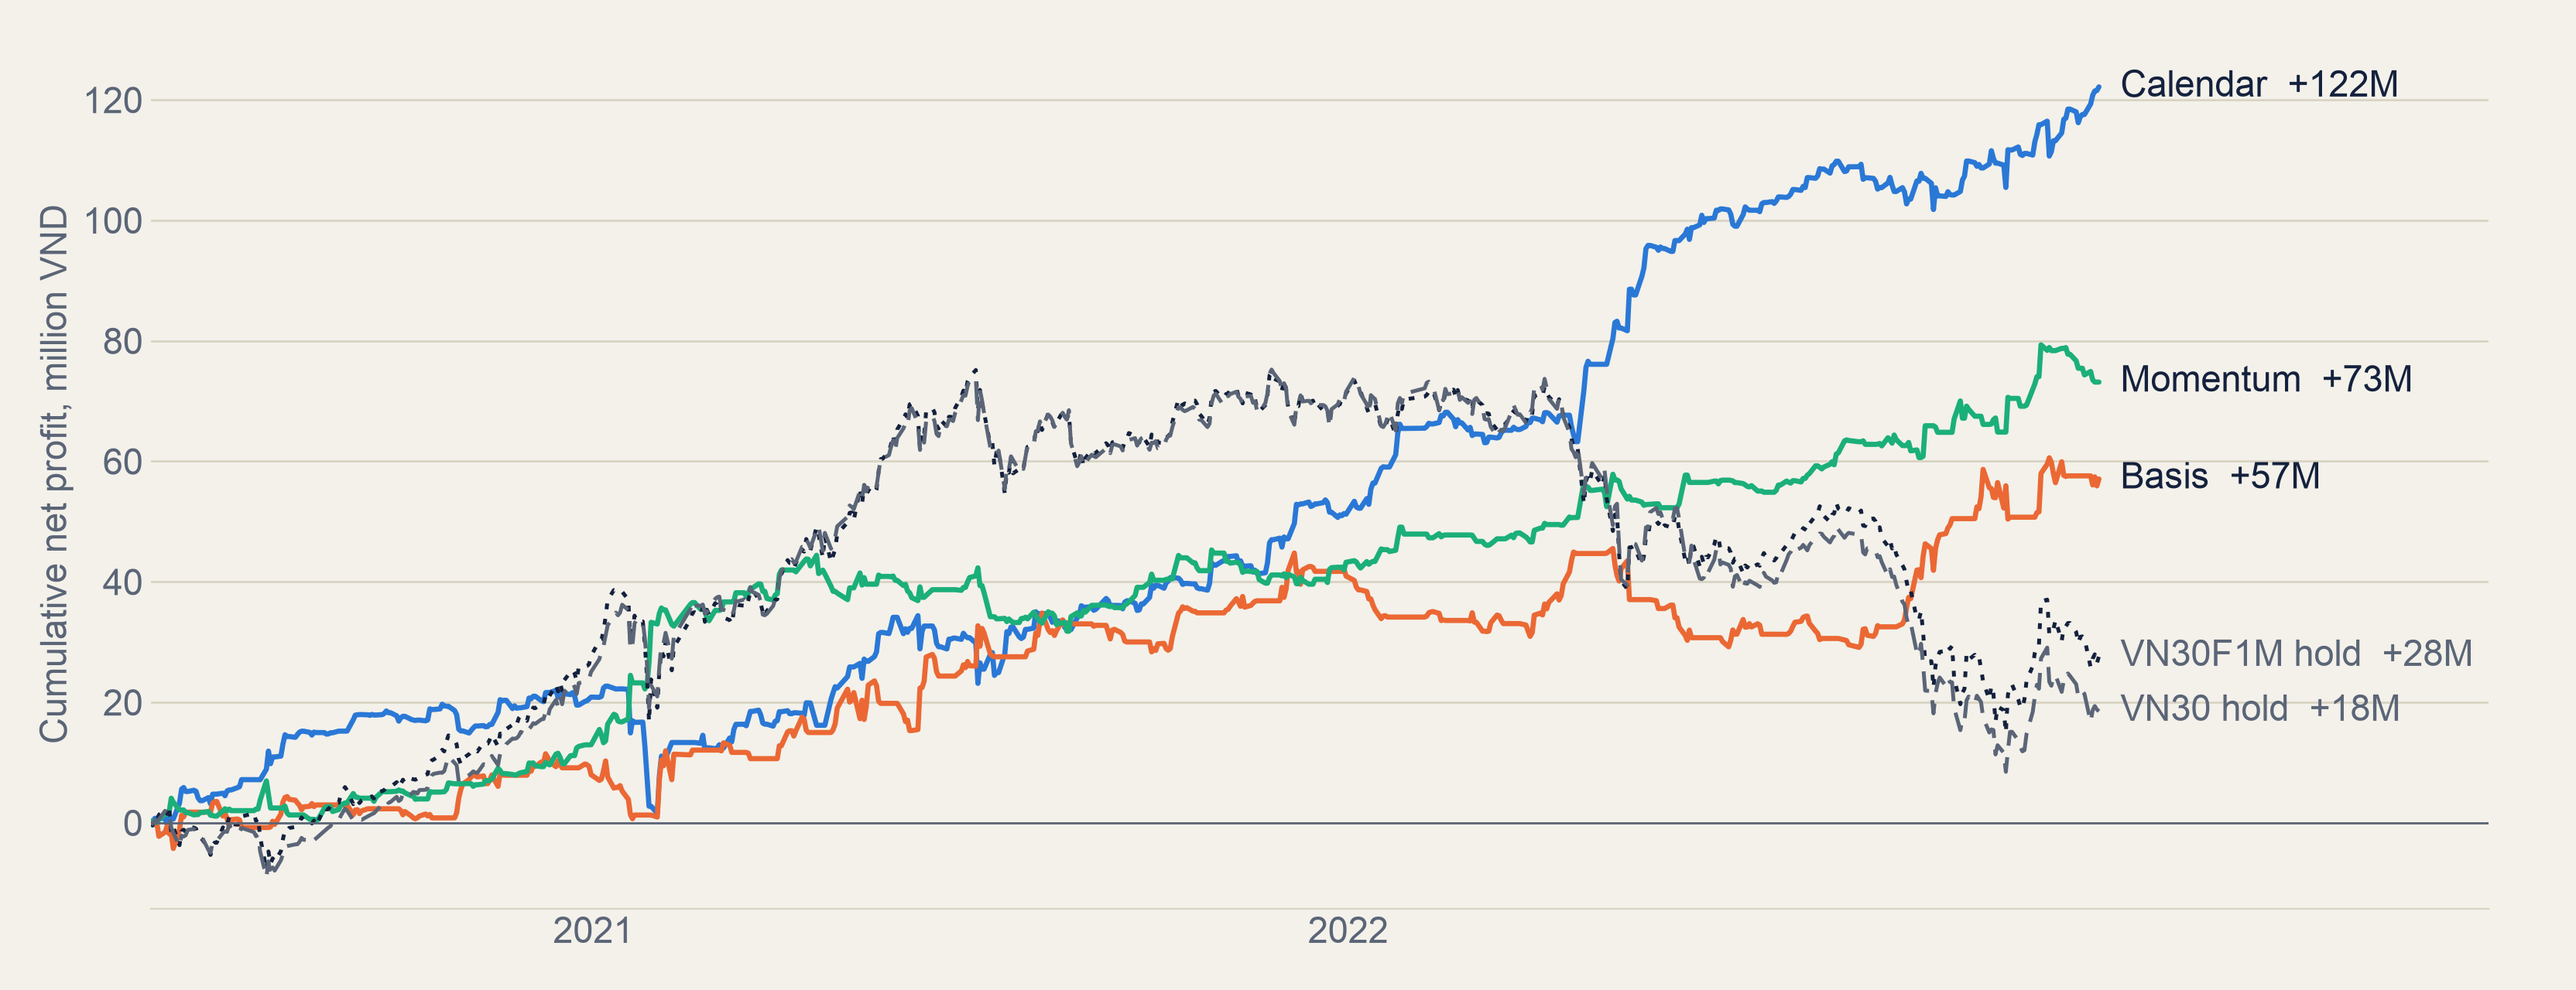
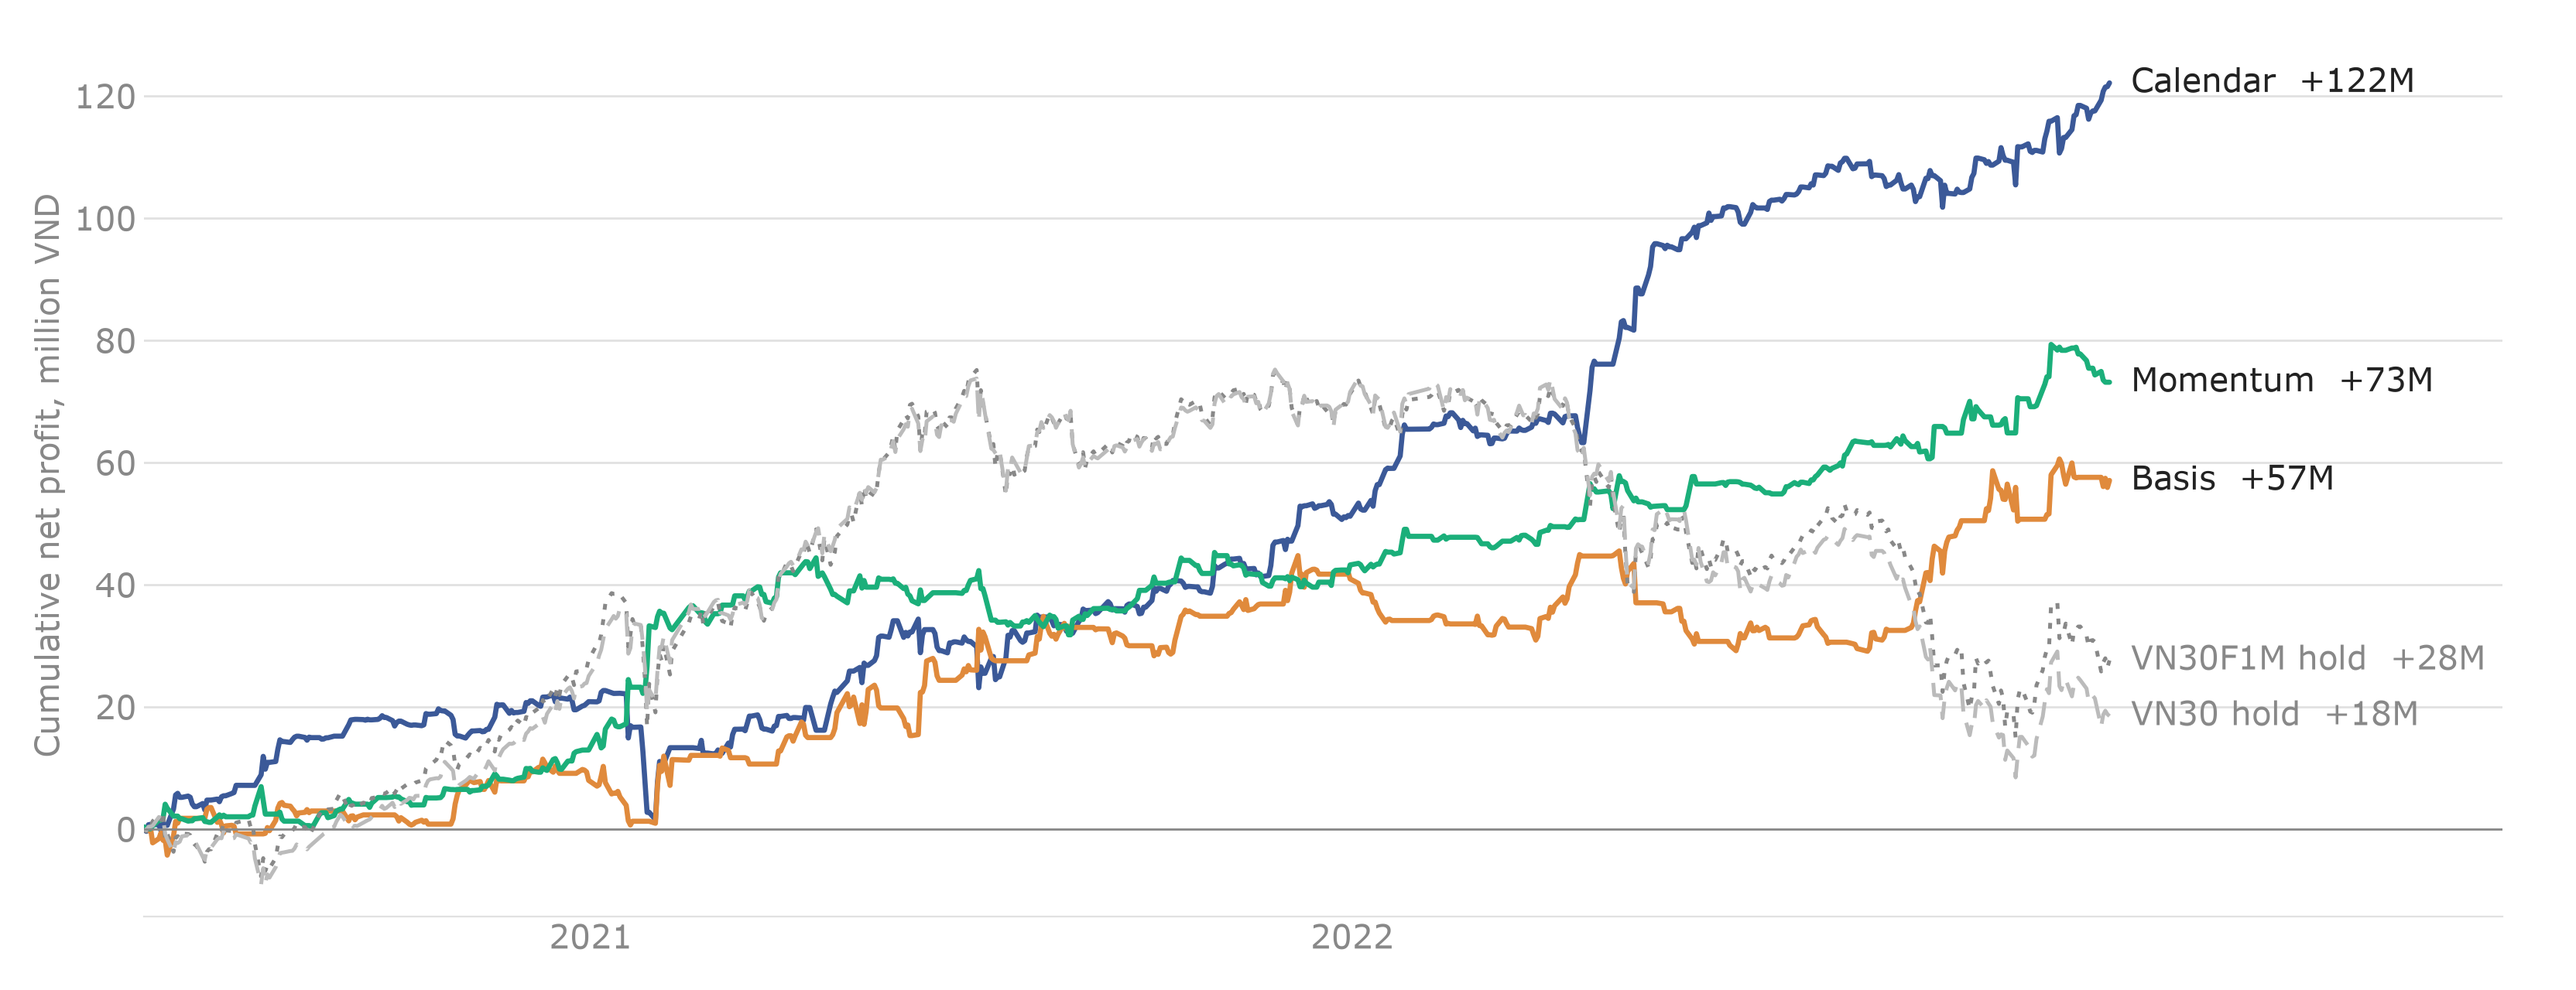
style(figures): white charts in the dashboard's style (Verdana, grey grid, blue accent)
Colours and fonts only; every number is unchanged. README images regenerated.

diff --git a/scripts/plot_calibrum_1m.py b/scripts/plot_calibrum_1m.py
@@ -36,13 +36,16 @@ REPORTS = WORKSPACE / "reports" / "calibrum_1m"
 FIGURES = REPORTS / "figures"
 MILLION_VND_PER_POINT = 0.1  # 1 point = 100,000 VND
 
-SURFACE, INK, MUTED, GRID, SHADE = "#F3F1EA", "#14213D", "#5B6577", "#D9D3C3", "#E6E2D6"
+# White, as the live dashboard: grey grid and text, one blue accent.
+SURFACE, INK, MUTED, GRID, SHADE = "#FFFFFF", "#222222", "#888888", "#E1E1E1", "#F4F4F4"
+ACCENT, ORANGE = "#3b5998", "#e08a3c"
+FONT, FONT_SIZE = ["Verdana", "DejaVu Sans"], 15  # DejaVu fills glyphs Verdana lacks (⇔, θ)
 PANELS = (
-    ("Each sleeve alone", {"C": "#2a78d6", "B": "#eb6834", "M": "#1baf7a"}),
-    ("Pairs and all three", {"C+B": "#e87ba4", "C+M": "#008300", "B+M": "#eda100", "C+B+M": "#6250d6"}),
+    ("Each sleeve alone", {"C": ACCENT, "B": ORANGE, "M": "#1baf7a"}),
+    ("Pairs and all three", {"C+B": "#e87ba4", "C+M": "#008300", "B+M": "#eda100", "C+B+M": ACCENT}),
 )
 NAMES = {"C": "Calendar", "B": "Basis", "M": "Momentum", "VN30F1M": "VN30F1M hold", "VN30": "VN30 hold"}
-BENCHMARKS = {"VN30F1M": (INK, (0, (1.5, 2.5))), "VN30": (MUTED, (0, (6, 3)))}
+BENCHMARKS = {"VN30F1M": (MUTED, (0, (1.5, 2.5))), "VN30": ("#BBBBBB", (0, (6, 3)))}
 PERIODS = (
     ("In-sample", "2020-06-01"),
     ("Valid", "2023-01-01"),
@@ -90,7 +93,7 @@ def draw(source: Path, out_stem: Path, size_px: tuple[int, int], mark_periods: b
     last = max(curve.index[-1] for curve in curves.values())
     references = _benchmarks(first, last)
     written = []
-    plt.rcParams.update({"font.family": "Arial", "font.size": 17, "axes.edgecolor": GRID})
+    plt.rcParams.update({"font.family": FONT, "font.size": FONT_SIZE, "axes.edgecolor": GRID})
     for (title, colours), suffix in zip(PANELS, ("sleeves", "combos")):
         shown = {**{combo: curves[combo] for combo in colours}, **references}
         top = max(series.max() for series in shown.values())
@@ -158,7 +161,7 @@ def draw_period(source: Path, start: str, end: str, out_stem: Path, size_px: tup
     first, last = min(c.index[0] for c in curves.values()), max(c.index[-1] for c in curves.values())
     references = _benchmarks(first, last)
     written = []
-    plt.rcParams.update({"font.family": "Arial", "font.size": 17, "axes.edgecolor": GRID})
+    plt.rcParams.update({"font.family": FONT, "font.size": FONT_SIZE, "axes.edgecolor": GRID})
     for (_, colours), suffix in zip(PANELS, ("sleeves", "combos")):
         shown = {**{name: curves[name] for name in colours}, **references}
         top = max(0.0, max(series.max() for series in shown.values()))
@@ -211,10 +214,10 @@ def draw_correlation(matrices: dict[str, dict], out: Path, size_px: tuple[int, i
     """
     from matplotlib.colors import LinearSegmentedColormap
 
-    cmap = LinearSegmentedColormap.from_list("diverging", ["#2a78d6", "#E6E2D6", "#eb6834"])
+    cmap = LinearSegmentedColormap.from_list("diverging", [ACCENT, SHADE, ORANGE])
     names = ["C", "B", "M"]
     labels = [NAMES[n] for n in names]
-    plt.rcParams.update({"font.family": "Arial", "font.size": 18})
+    plt.rcParams.update({"font.family": FONT, "font.size": FONT_SIZE + 1})
     fig, axes = plt.subplots(1, len(matrices), figsize=(2 * size_px[0] / DPI, 2 * size_px[1] / DPI))
     axes = [axes] if len(matrices) == 1 else list(axes)
     fig.patch.set_facecolor(SURFACE)

diff --git a/scripts/paper_luna.py b/scripts/paper_luna.py
@@ -99,25 +99,25 @@ def draw(curve: pd.DataFrame, adjusted: pd.Series, chart_start: pd.Timestamp, ou
     import matplotlib.dates as mdates
     import matplotlib.pyplot as plt
 
-    from scripts.plot_calibrum_1m import DPI, GRID, INK, MUTED, SURFACE
+    from scripts.plot_calibrum_1m import ACCENT, DPI, FONT, FONT_SIZE, GRID, INK, MUTED, SHADE, SURFACE
 
     days = adjusted.loc[chart_start:END].index
     bot = (curve["pnl"] / 1e6).reindex(days).fillna(0.0)
     hold = (adjusted.loc[days] - adjusted.loc[chart_start]) * HOLD * MULTIPLIER / 1e6
     bot_start = adjusted.loc[: START - pd.Timedelta(days=1)].index[-1]  # both lines are marked at closes
 
-    plt.rcParams.update({"font.family": "Arial", "font.size": 18, "axes.edgecolor": GRID})
+    plt.rcParams.update({"font.family": FONT, "font.size": FONT_SIZE + 1, "axes.edgecolor": GRID})
     fig, ax = plt.subplots(figsize=(2 * 1664 / DPI, 2 * 600 / DPI))
     fig.patch.set_facecolor(SURFACE)
     ax.set_facecolor(SURFACE)
-    ax.axvspan(days[0], bot_start, color="#E6E2D6", linewidth=0)
-    ax.plot(bot.index, bot.values, color="#2a78d6", linewidth=3.4, solid_capstyle="round")
+    ax.axvspan(days[0], bot_start, color=SHADE, linewidth=0)
+    ax.plot(bot.index, bot.values, color=ACCENT, linewidth=3.4, solid_capstyle="round")
     ax.plot(hold.index, hold.values, color=INK, linewidth=1.8, linestyle=(0, (1.5, 2.5)))
     ax.axhline(0, color=MUTED, linewidth=1)
     top, bottom = max(bot.max(), hold.max()), min(bot.min(), hold.min())
     label_y = top + 0.06 * (top - bottom)
     ax.axvline(bot_start, color=MUTED, linewidth=1.6, linestyle=(0, (4, 3)))
-    ax.text(days[0] + pd.Timedelta(days=1), label_y, "August contract, before the bot", color=MUTED, fontsize=18, va="top")
+    ax.text(days[0] + pd.Timedelta(days=1), label_y, "Before the bot", color=MUTED, fontsize=18, va="top")
     ax.text(bot_start + pd.Timedelta(days=1), label_y, f"Bot starts, {START:%d %b}", color=INK, fontsize=18,
             va="top", fontweight="bold")
     for series, text, colour, weight in (

diff --git a/scripts/plot_calibrum_drawdown.py b/scripts/plot_calibrum_drawdown.py
@@ -29,8 +29,11 @@ if str(WORKSPACE) not in sys.path:
     sys.path.insert(0, str(WORKSPACE))
 
 from scripts.plot_calibrum_1m import (  # noqa: E402
+    ACCENT,
     BENCHMARKS,
     DPI,
+    FONT,
+    FONT_SIZE,
     FIGURES,
     GRID,
     INK,
@@ -41,7 +44,7 @@ from scripts.plot_calibrum_1m import (  # noqa: E402
 )
 from src.lab.calibrum_1m import pipeline  # noqa: E402
 
-COMBO, COLOUR = "C+B+M", "#6250d6"
+COMBO, COLOUR = "C+B+M", ACCENT
 NAMES = {"in_sample": "In-sample", "valid": "Valid", "oos1": "OOS 1", "oos2": "OOS 2"}
 CAPITAL_MILLION = 100.0
 POINT_MILLION = 0.1
@@ -81,7 +84,7 @@ def main() -> int:
     hold = _daily(json.loads((REPORTS / "benchmarks.json").read_text(encoding="utf-8"))["daily_net_points"], "VN30F1M")
     windows = pipeline.periods(pipeline.load_config())
 
-    plt.rcParams.update({"font.family": "Arial", "font.size": 17, "axes.edgecolor": GRID})
+    plt.rcParams.update({"font.family": FONT, "font.size": FONT_SIZE, "axes.edgecolor": GRID})
     fig, ax = plt.subplots(figsize=(2 * 1664 / DPI, 2 * 640 / DPI))
     fig.patch.set_facecolor(SURFACE)
     ax.set_facecolor(SURFACE)

diff --git a/scripts/plot_calibrum_positions.py b/scripts/plot_calibrum_positions.py
@@ -32,8 +32,10 @@ from run_calibrum_1m import _optimised_sleeves  # noqa: E402
 from src.lab.calibrum_1m import pipeline  # noqa: E402
 
 FIGURES = WORKSPACE / "reports" / "calibrum_1m" / "figures"
-SURFACE, INK, MUTED, GRID, LANE = "#F3F1EA", "#14213D", "#5B6577", "#D9D3C3", "#E6E2D6"
-LONG, SHORT = "#2a78d6", "#eb6834"
+from scripts.plot_calibrum_1m import ACCENT, FONT, FONT_SIZE, GRID, INK, MUTED, ORANGE, SURFACE  # noqa: E402
+
+LANE = "#F4F4F4"
+LONG, SHORT = ACCENT, ORANGE
 LANES = (("C", "Calendar"), ("B", "Basis"), ("M", "Momentum"), ("V", "Vote C+B+M"))
 DPI = 200
 
@@ -63,7 +65,7 @@ def main() -> int:
     x = np.arange(len(frame))
     day_starts = frame.index[frame["t"].dt.date.ne(frame["t"].dt.date.shift())].to_numpy()
 
-    plt.rcParams.update({"font.family": "Arial", "font.size": 17, "axes.edgecolor": GRID})
+    plt.rcParams.update({"font.family": FONT, "font.size": FONT_SIZE, "axes.edgecolor": GRID})
     size_px = (1664, 620)
     fig = plt.figure(figsize=(2 * size_px[0] / DPI, 2 * size_px[1] / DPI))
     fig.patch.set_facecolor(SURFACE)

diff --git a/scripts/plot_momentum_scores.py b/scripts/plot_momentum_scores.py
@@ -21,11 +21,11 @@ WORKSPACE = Path(__file__).resolve().parents[1]
 if str(WORKSPACE) not in sys.path:
     sys.path.insert(0, str(WORKSPACE))
 
-from scripts.plot_calibrum_1m import DPI, FIGURES, GRID, INK, MUTED, SURFACE  # noqa: E402
+from scripts.plot_calibrum_1m import ACCENT, DPI, FIGURES, FONT, FONT_SIZE, GRID, INK, MUTED, SURFACE  # noqa: E402
 from scripts.run_calibrum_1m import _model  # noqa: E402
 from src.lab.calibrum_1m import pipeline  # noqa: E402
 
-KEPT, OUT_OF_TRADE = "#eb6834", "#c9cfd8"
+KEPT, OUT_OF_TRADE = ACCENT, "#D5D9E0"
 QUANTILES = (0.7, 0.8, 0.9)
 X_MAX = 0.6
 
@@ -39,7 +39,7 @@ def main() -> int:
     thetas = {q: float(scores.quantile(q)) for q in QUANTILES}
     chosen = thetas[0.9]
 
-    plt.rcParams.update({"font.family": "Arial", "font.size": 18, "axes.edgecolor": GRID})
+    plt.rcParams.update({"font.family": FONT, "font.size": FONT_SIZE + 1, "axes.edgecolor": GRID})
     fig, ax = plt.subplots(figsize=(2 * 1664 / DPI, 2 * 600 / DPI))
     fig.patch.set_facecolor(SURFACE)
     ax.set_facecolor(SURFACE)
